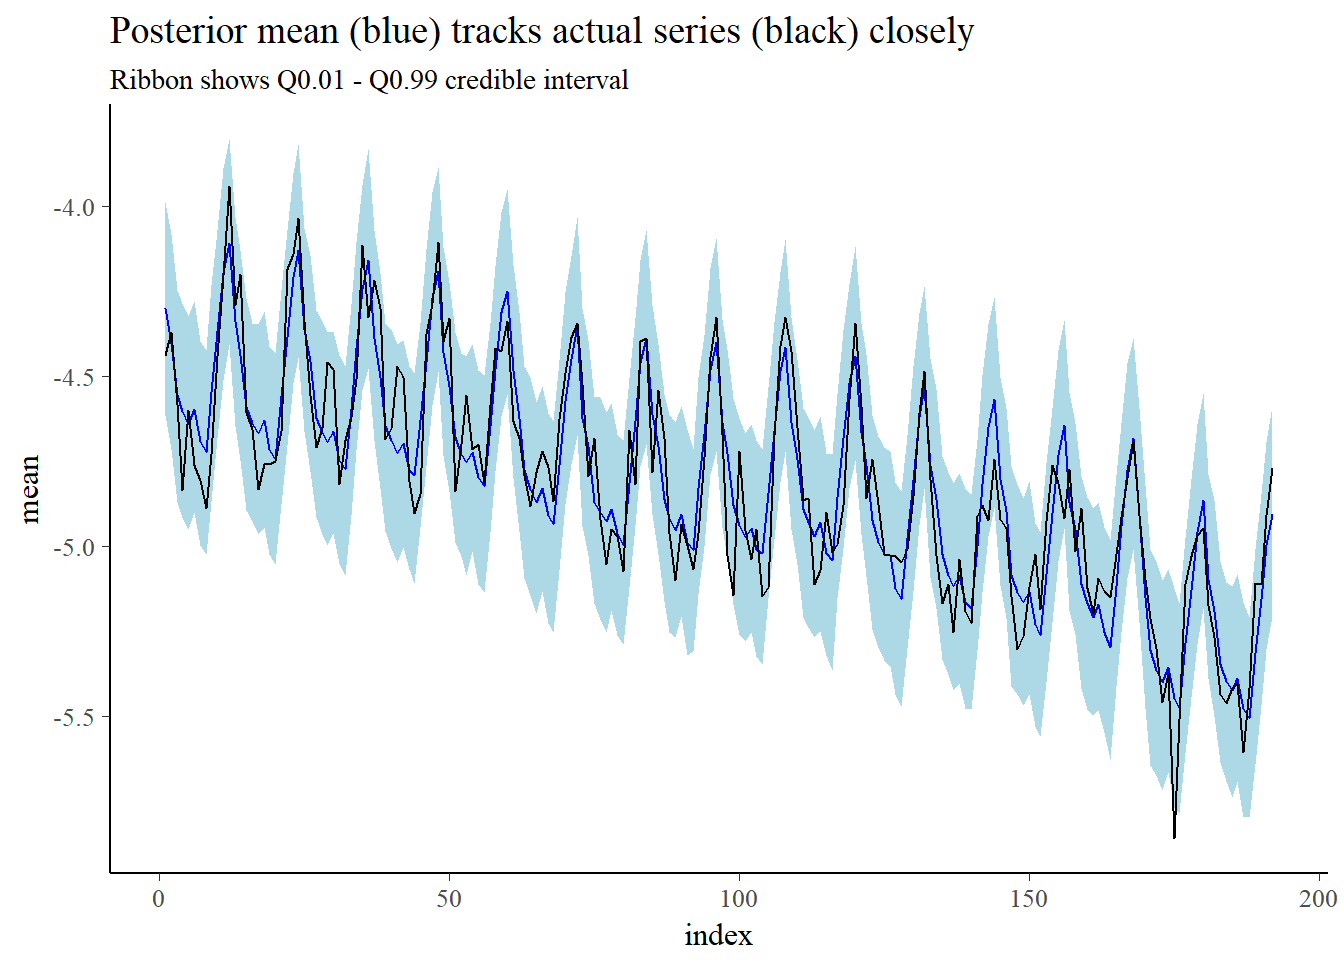
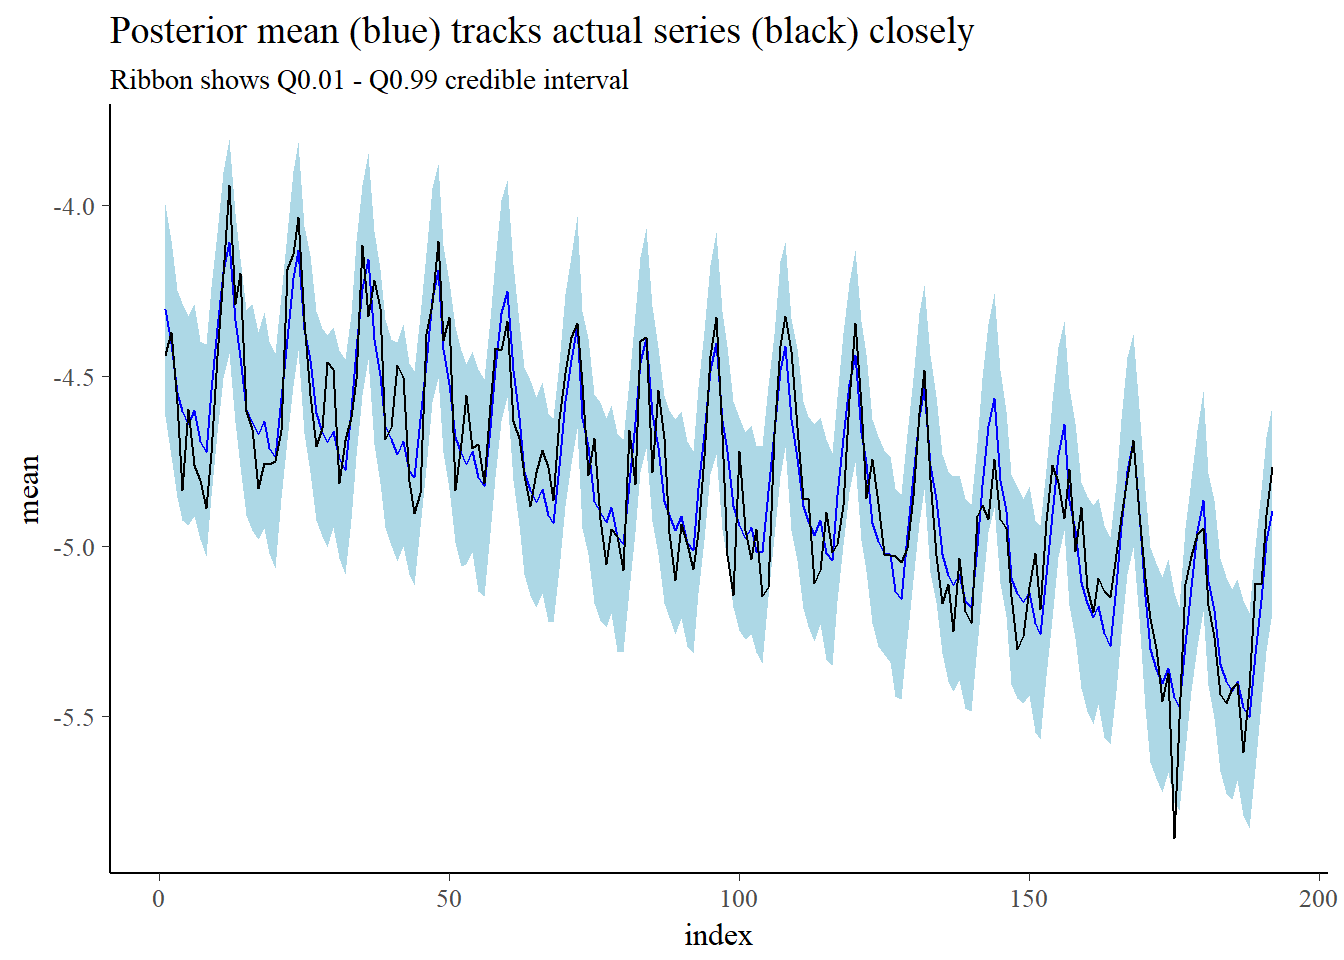
updated

Changed region(s): [[0.2812, 0.3438, 0.3125, 0.375]]

diff --git a/content/post/causal-impact-using-bayes-statistics.html b/content/post/causal-impact-using-bayes-statistics.html
@@ -238,22 +238,22 @@ colnames(out) = c(&quot;coeff&quot;, &quot;OLS&quot;, &quot;Gibbs&quot;, &quot;D
 rownames(out) = NULL
 out</code></pre>
 <pre><code>##          coeff          OLS        Gibbs Delta &lt; 0.01
-## 1  (Intercept) -4.047964950 -4.056624874         TRUE
-## 2  PetrolPrice -2.585395621 -2.490660877        FALSE
-## 3    VanKilled  0.001267367  0.001259797         TRUE
-## 4         law1 -0.135868045 -0.137092168         TRUE
-## 5       month2 -0.093704899 -0.094130943         TRUE
-## 6       month3 -0.247982128 -0.248614086         TRUE
-## 7       month4 -0.294794780 -0.294319475         TRUE
-## 8       month5 -0.325415207 -0.325577337         TRUE
-## 9       month6 -0.287237168 -0.286797212         TRUE
-## 10      month7 -0.364636631 -0.365211832         TRUE
-## 11      month8 -0.389147546 -0.389947455         TRUE
-## 12      month9 -0.208736279 -0.209887233         TRUE
-## 13     month10 -0.035105269 -0.034948636         TRUE
-## 14     month11  0.136652145  0.136919749         TRUE
-## 15     month12  0.226670664  0.226537813         TRUE
-## 16  time_index -0.003399847 -0.003408803         TRUE</code></pre>
+## 1  (Intercept) -4.047964950 -4.059341387        FALSE
+## 2  PetrolPrice -2.585395621 -2.465121145        FALSE
+## 3    VanKilled  0.001267367  0.001243204         TRUE
+## 4         law1 -0.135868045 -0.137033224         TRUE
+## 5       month2 -0.093704899 -0.093548609         TRUE
+## 6       month3 -0.247982128 -0.247540206         TRUE
+## 7       month4 -0.294794780 -0.294062969         TRUE
+## 8       month5 -0.325415207 -0.324937449         TRUE
+## 9       month6 -0.287237168 -0.286454324         TRUE
+## 10      month7 -0.364636631 -0.364423669         TRUE
+## 11      month8 -0.389147546 -0.389364768         TRUE
+## 12      month9 -0.208736279 -0.208740228         TRUE
+## 13     month10 -0.035105269 -0.034379475         TRUE
+## 14     month11  0.136652145  0.137616339         TRUE
+## 15     month12  0.226670664  0.227045610         TRUE
+## 16  time_index -0.003399847 -0.003410663         TRUE</code></pre>
 <p>Pretty similar, but not quite the same. Very important to note here is that due to the small sample size (only 192 observations) the priors have quite a strong say on the posterior! If we were to put stronger prior beliefs into our model the prior would dominate the posterior and the results could be very different!</p>
 <p>So both models suggest that the introduction of the law actually helped reduce the number of driver deaths per km driven.</p>
 <div id="convergence-tests" class="section level4">
@@ -359,9 +359,9 @@ model_vanilla_test = sampling(vanilla_regression, data = list(N = N, K = K, y = 
 ## Iteration: 9000 / 10000 [ 90%]  (Sampling)
 ## Iteration: 10000 / 10000 [100%]  (Sampling)
 ## 
-##  Elapsed Time: 17.28 seconds (Warm-up)
-##                8.699 seconds (Sampling)
-##                25.979 seconds (Total)</code></pre>
+##  Elapsed Time: 15.119 seconds (Warm-up)
+##                7.831 seconds (Sampling)
+##                22.95 seconds (Total)</code></pre>
 <pre class="r"><code># pairs(model_vanilla_test)
 broom::tidyMCMC(model_vanilla_test, conf.int = T)</code></pre>
 <pre><code>##        term     estimate    std.error     conf.low    conf.high
@@ -614,13 +614,13 @@ y = log(data_seatbelts$DriversKilled) - log(data_seatbelts$kms)
 res_serial = gibbs_corr_err(y, X)
 colMeans(res_serial)</code></pre>
 <pre><code>##       beta_0       beta_1       beta_2       beta_3       beta_4 
-## -4.013454724 -2.289515303 -0.001879947 -0.133926174 -0.113767277 
+## -4.016267531 -2.271229459 -0.001852954 -0.132825805 -0.113783488 
 ##       beta_5       beta_6       beta_7       beta_8       beta_9 
-## -0.266487522 -0.314912531 -0.345525206 -0.303426028 -0.383631562 
+## -0.265196096 -0.314381850 -0.344432796 -0.302218115 -0.382562642 
 ##      beta_10      beta_11      beta_12      beta_13      beta_14 
-## -0.409177043 -0.228340674 -0.046955563  0.125408187  0.215846854 
+## -0.408080292 -0.226977665 -0.046327030  0.125931620  0.216191766 
 ##      beta_15       sigma2          rho 
-## -0.003497682  0.016347350  0.264049281</code></pre>
+## -0.003501875  0.016360713  0.264152673</code></pre>
 <p>The coefficients look pretty similar to what we had in the no-autocorrelation sampler, which is reassuring, since autocorrelation should only affect the standard-errors of the coefficients not the coefficients. Let’s compare the results with an ARIMAX model using the same model specification:</p>
 <pre class="r"><code>## Note: be careful to remove intercept!
 X_temp = model.matrix(~ PetrolPrice + VanKilled + law + month + time_index, data = data_seatbelts)[,-1]
@@ -697,8 +697,8 @@ model_extended_vanilla = sampling(extended_vanilla_regression, data = list(N = N
 <pre><code>## 
 ## SAMPLING FOR MODEL &#39;aaa0d39f6a605bd518310da896513842&#39; NOW (CHAIN 1).
 ## 
-## Gradient evaluation took 0 seconds
-## 1000 transitions using 10 leapfrog steps per transition would take 0 seconds.
+## Gradient evaluation took 0.001 seconds
+## 1000 transitions using 10 leapfrog steps per transition would take 10 seconds.
 ## Adjust your expectations accordingly!
 ## 
 ## 
@@ -715,9 +715,9 @@ model_extended_vanilla = sampling(extended_vanilla_regression, data = list(N = N
 ## Iteration: 9000 / 10000 [ 90%]  (Sampling)
 ## Iteration: 10000 / 10000 [100%]  (Sampling)
 ## 
-##  Elapsed Time: 90.769 seconds (Warm-up)
-##                59.619 seconds (Sampling)
-##                150.388 seconds (Total)</code></pre>
+##  Elapsed Time: 80.006 seconds (Warm-up)
+##                54.188 seconds (Sampling)
+##                134.194 seconds (Total)</code></pre>
 <pre class="r"><code>broom::tidyMCMC(model_extended_vanilla, conf.int = T)</code></pre>
 <pre><code>##        term     estimate    std.error     conf.low    conf.high
 ## 1   beta[1] -4.022969354 0.1272765140 -4.272220157 -3.770700778
@@ -754,32 +754,6 @@ traceplot(model_extended_vanilla, pars = c(&quot;beta[4]&quot;, &quot;rho&quot;)
 <h2>Bayesian structural time series models using <code>CausalImpact</code></h2>
 <p>In this section we will use yet another approach to check whether the requirement to wear seatbelts helped reduce driver deaths.</p>
 <p>Let’s begin by splitting our data set into a pre- and posttreatment phase:</p>
-<pre class="r"><code>data_causalimpact = as.zoo(Seatbelts)
-
-pre_period = time(data_causalimpact)[c(1, 169)]
-post_period = time(data_causalimpact)[c(170, 192)]
-
-
-impact = CausalImpact(data_causalimpact, pre_period, post_period, list(niter = 5000))
-
-impact</code></pre>
-<pre><code>## Posterior inference {CausalImpact}
-## 
-##                          Average         Cumulative     
-## Actual                   100             2306           
-## Prediction (s.d.)        101 (204)       2315 (4685)    
-## 95% CI                   [-405, 606]     [-9304, 13928] 
-##                                                         
-## Absolute effect (s.d.)   -0.41 (204)     -9.47 (4685)   
-## 95% CI                   [-505, 505]     [-11622, 11610]
-##                                                         
-## Relative effect (s.d.)   -0.41% (202%)   -0.41% (202%)  
-## 95% CI                   [-502%, 501%]   [-502%, 501%]  
-## 
-## Posterior tail-area probability p:   0.21817
-## Posterior prob. of a causal effect:  78%
-## 
-## For more details, type: summary(impact, &quot;report&quot;)</code></pre>
 <pre class="r"><code>kms = data_seatbelts$kms
 drivers = data_seatbelts$drivers
 petrol_price = data_seatbelts$PetrolPrice
@@ -798,23 +772,23 @@ impact</code></pre>
 ## 
 ##                          Average        Cumulative  
 ## Actual                   100            2306        
-## Prediction (s.d.)        95 (3.3)       2185 (76.9) 
-## 95% CI                   [89, 102]      [2041, 2343]
+## Prediction (s.d.)        95 (3.3)       2185 (76.0) 
+## 95% CI                   [89, 102]      [2040, 2340]
 ##                                                     
-## Absolute effect (s.d.)   5.3 (3.3)      120.8 (76.9)
-## 95% CI                   [-1.6, 12]     [-36.7, 265]
+## Absolute effect (s.d.)   5.3 (3.3)      120.8 (76.0)
+## 95% CI                   [-1.5, 12]     [-34.3, 266]
 ##                                                     
 ## Relative effect (s.d.)   5.5% (3.5%)    5.5% (3.5%) 
-## 95% CI                   [-1.7%, 12%]   [-1.7%, 12%]
+## 95% CI                   [-1.6%, 12%]   [-1.6%, 12%]
 ## 
-## Posterior tail-area probability p:   0.06484
-## Posterior prob. of a causal effect:  94%
+## Posterior tail-area probability p:   0.0537
+## Posterior prob. of a causal effect:  95%
 ## 
 ## For more details, type: summary(impact, &quot;report&quot;)</code></pre>
 <pre class="r"><code>plot(impact)</code></pre>
 <pre><code>## Warning: Removed 192 rows containing missing values (geom_path).</code></pre>
 <pre><code>## Warning: Removed 384 rows containing missing values (geom_path).</code></pre>
-<p><img src="/post/causal-impact-using-bayes-statistics_files/figure-html/unnamed-chunk-5-1.png" width="672" /></p>
+<p><img src="/post/causal-impact-using-bayes-statistics_files/figure-html/unnamed-chunk-4-1.png" width="672" /></p>
 <p>The structural time series model again shows a high likelihood that the introduciton of the seatbelt law helped reduce the number of driver deaths and confirms our previous findings.</p>
 <p>I plan to cover using <a href="https://CRAN.R-project.org/package=greta"><code>greta</code></a>, an alternative to <code>stan</code> that uses tensorflow as its backend, for Bayesian inference in some future blog post.</p>
 <p>I hope you found this analysis interesting!</p>

diff --git a/content/post/2018-05-12-data-table-deep-copy.html b/content/post/2018-05-12-data-table-deep-copy.html
@@ -34,16 +34,16 @@ identical(dt_mtcars_shallow_copy, dt_mtcars)</code></pre>
 <pre><code>## [1] TRUE</code></pre>
 <p>They are! How could that happen? Let’s check the memory location in RAM where our objects are stored:</p>
 <pre class="r"><code>tracemem(dt_mtcars)</code></pre>
-<pre><code>## [1] &quot;&lt;0000000017B31FC8&gt;&quot;</code></pre>
+<pre><code>## [1] &quot;&lt;00000000175B49E0&gt;&quot;</code></pre>
 <pre class="r"><code>tracemem(dt_mtcars_shallow_copy)</code></pre>
-<pre><code>## [1] &quot;&lt;0000000017B31FC8&gt;&quot;</code></pre>
+<pre><code>## [1] &quot;&lt;00000000175B49E0&gt;&quot;</code></pre>
 <p>Both objects are stored at the same place in our computer’s memory. The reason for this is actually quite simple: When you do an assignment in R, both variables point to the same location in memory until one of them changes. When we change one of the variables using R’s normal functions, R makes a copy of the object. However, since we used <code>data.table</code> to modify the object by reference R never makes a copy and both variables till point to the same address with the changed dataset.</p>
 <p>You can force a deep copy (aka copy an object to its own location in memory) by using <code>copy()</code>:</p>
 <pre class="r"><code># use copy() to create a deep copy
 dt_mtcars_deep_copy = copy(dt_mtcars)</code></pre>
-<pre><code>## tracemem[0x0000000017b31fc8 -&gt; 0x00000000148ad6b8]: copy eval eval withVisible withCallingHandlers handle timing_fn evaluate_call &lt;Anonymous&gt; evaluate in_dir block_exec call_block process_group.block process_group withCallingHandlers process_file &lt;Anonymous&gt; &lt;Anonymous&gt; eval eval eval eval eval.parent local</code></pre>
+<pre><code>## tracemem[0x00000000175b49e0 -&gt; 0x00000000148ab908]: copy eval eval withVisible withCallingHandlers handle timing_fn evaluate_call &lt;Anonymous&gt; evaluate in_dir block_exec call_block process_group.block process_group withCallingHandlers process_file &lt;Anonymous&gt; &lt;Anonymous&gt; eval eval eval eval eval.parent local</code></pre>
 <pre class="r"><code>tracemem(dt_mtcars_deep_copy)</code></pre>
-<pre><code>## [1] &quot;&lt;0000000014FE88B8&gt;&quot;</code></pre>
+<pre><code>## [1] &quot;&lt;0000000017B82958&gt;&quot;</code></pre>
 <pre class="r"><code>tracemem(dt_mtcars)</code></pre>
-<pre><code>## [1] &quot;&lt;0000000017B31FC8&gt;&quot;</code></pre>
+<pre><code>## [1] &quot;&lt;00000000175B49E0&gt;&quot;</code></pre>
 <p>That’s it, hope you found the post useful:)</p>
